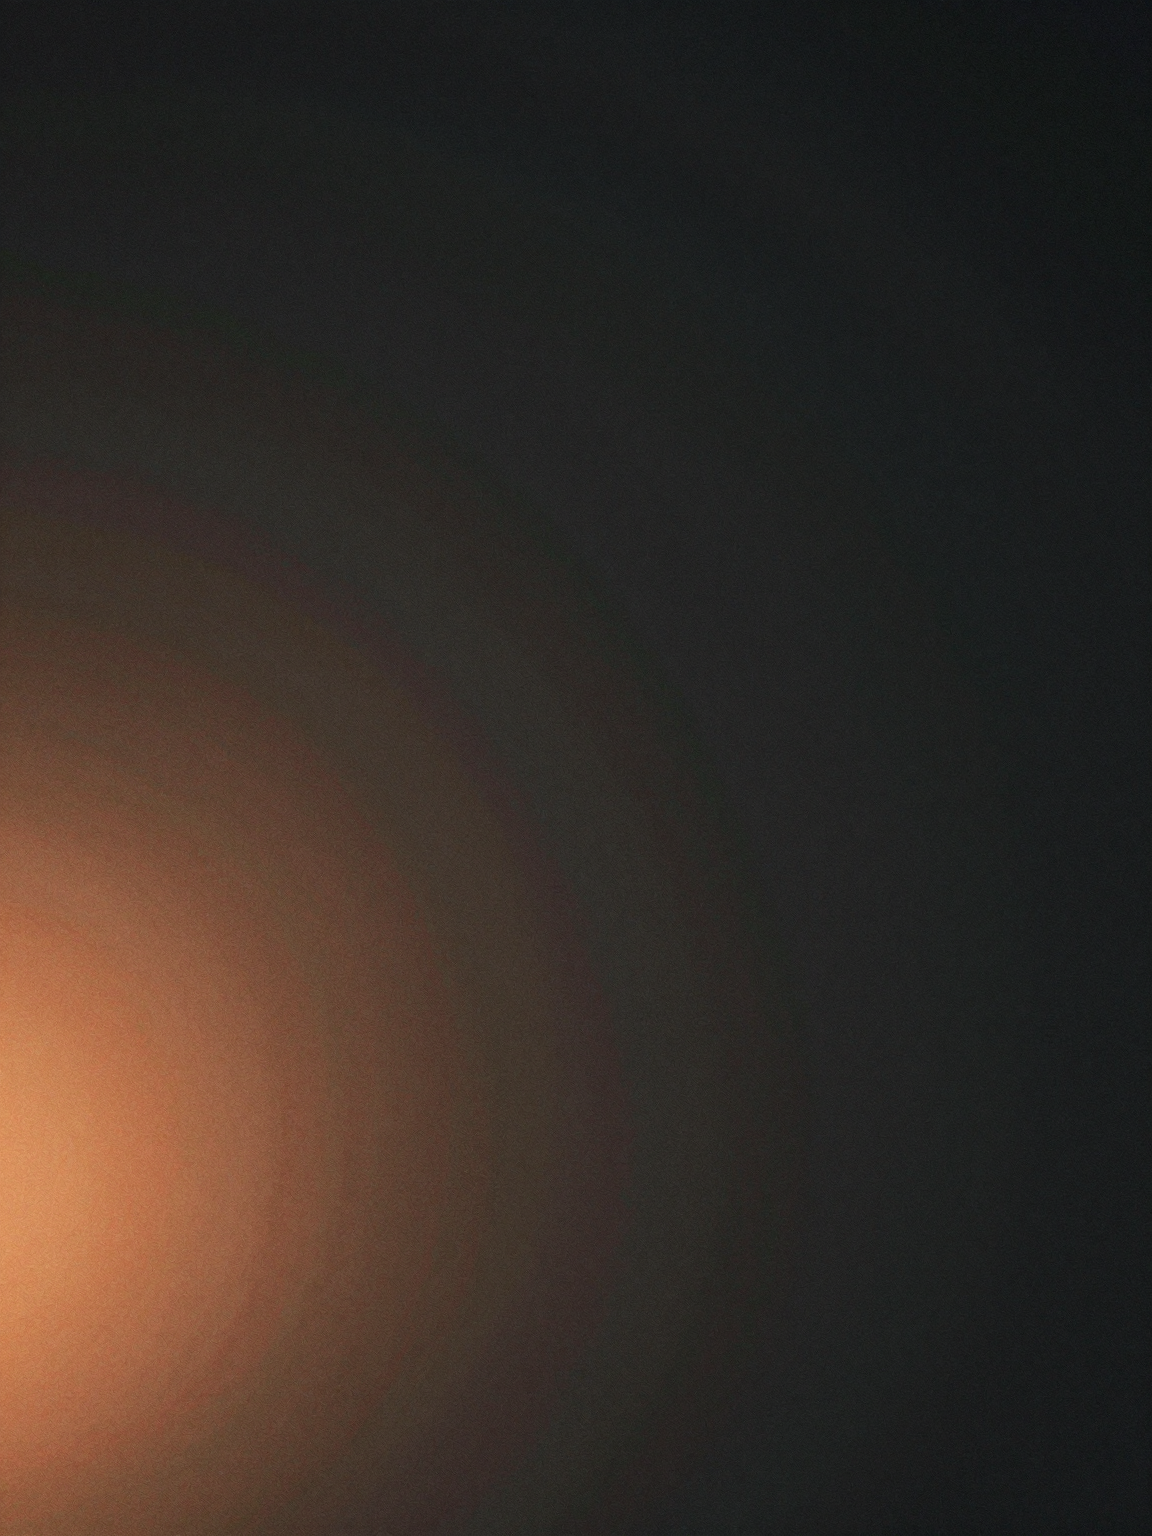
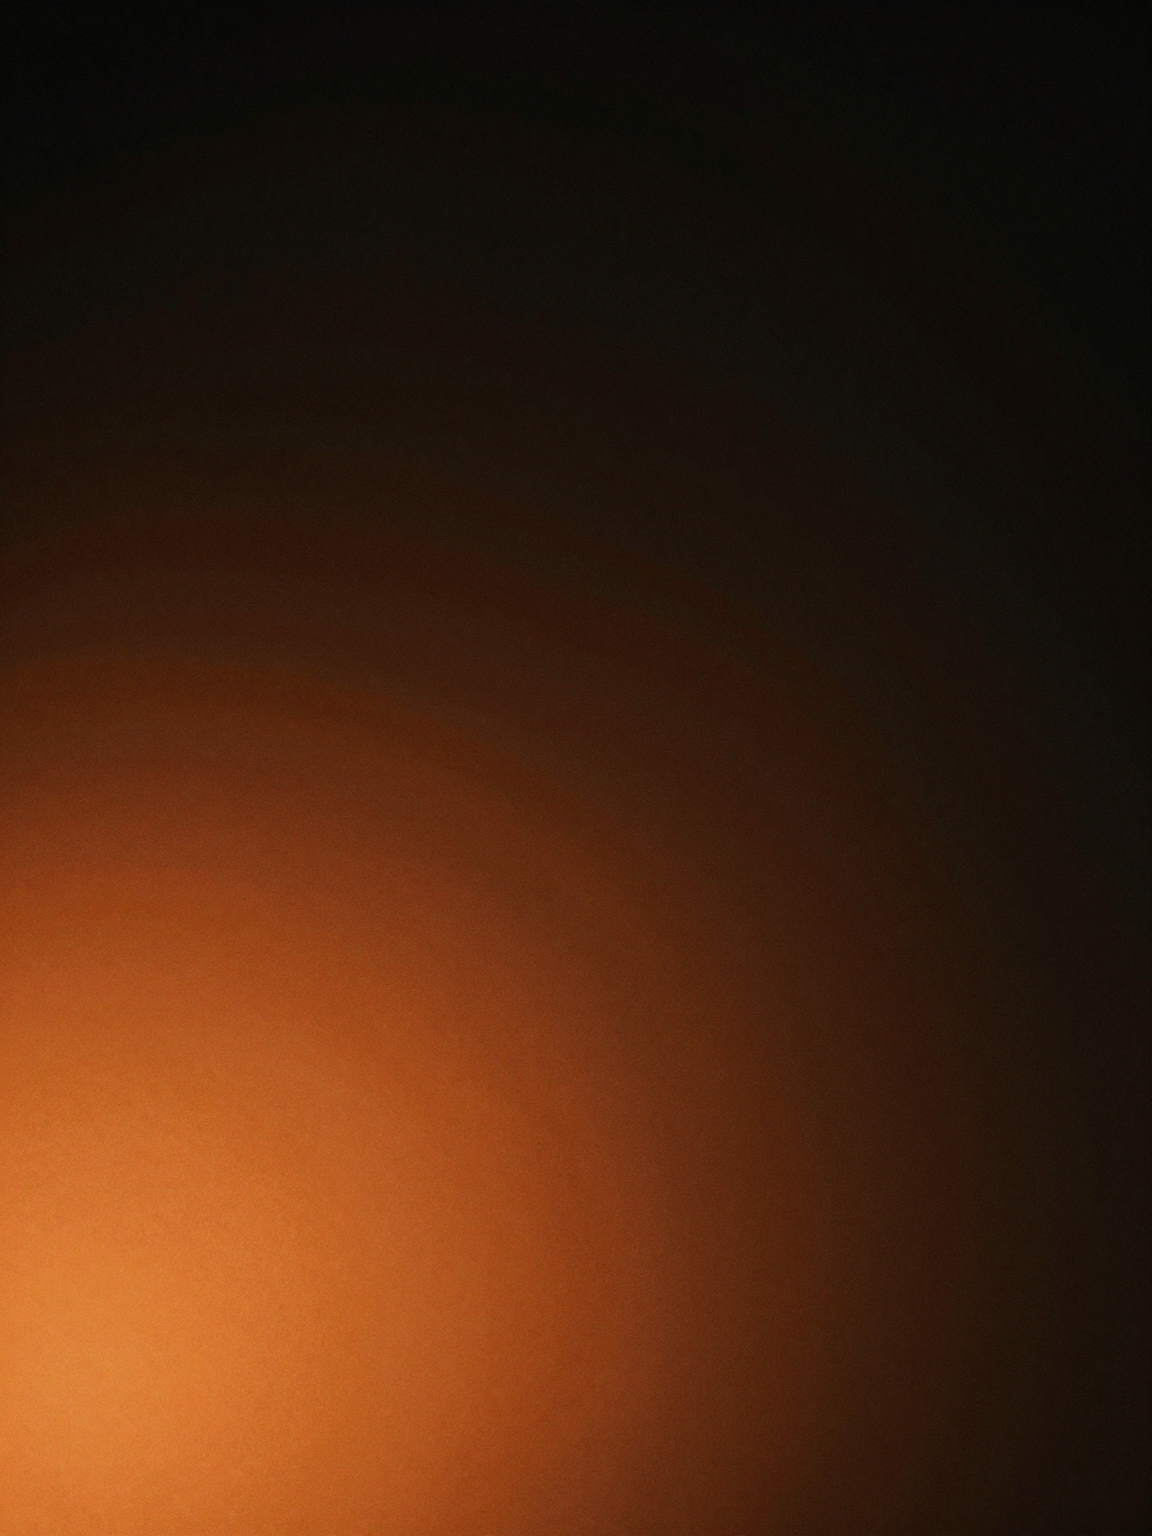
Use the saturated amber-orange backgrounds: phone seed 101, iPad seed 303 (#34)

diff --git a/scripts/frame-screenshots.swift b/scripts/frame-screenshots.swift
@@ -17,10 +17,11 @@
 //            VAE ae.safetensors
 //   sampler  res_multistep, scheduler simple, 8 steps, cfg 1, denoise 1
 //   shift    3 (ModelSamplingAuraFlow), negative is the zeroed prompt
-//   prompt   "dark charcoal studio backdrop, one soft out-of-focus warm orange light glow
-//            from the lower left, fine grain, top third nearly black, no text, no objects"
+//   prompt   "dark charcoal studio backdrop, one soft out-of-focus saturated deep
+//            amber-orange light glow from the lower left, fine grain, top third nearly
+//            black, no text, no objects"
 //   iphone-69  832x1808, seed 101
-//   ipad-13    1152x1536, seed 101
+//   ipad-13    1152x1536, seed 303
 //
 //   swift scripts/frame-screenshots.swift iphone-69 <raw dir> <out dir>
 //   swift scripts/frame-screenshots.swift ipad-13   <raw dir> <out dir>
